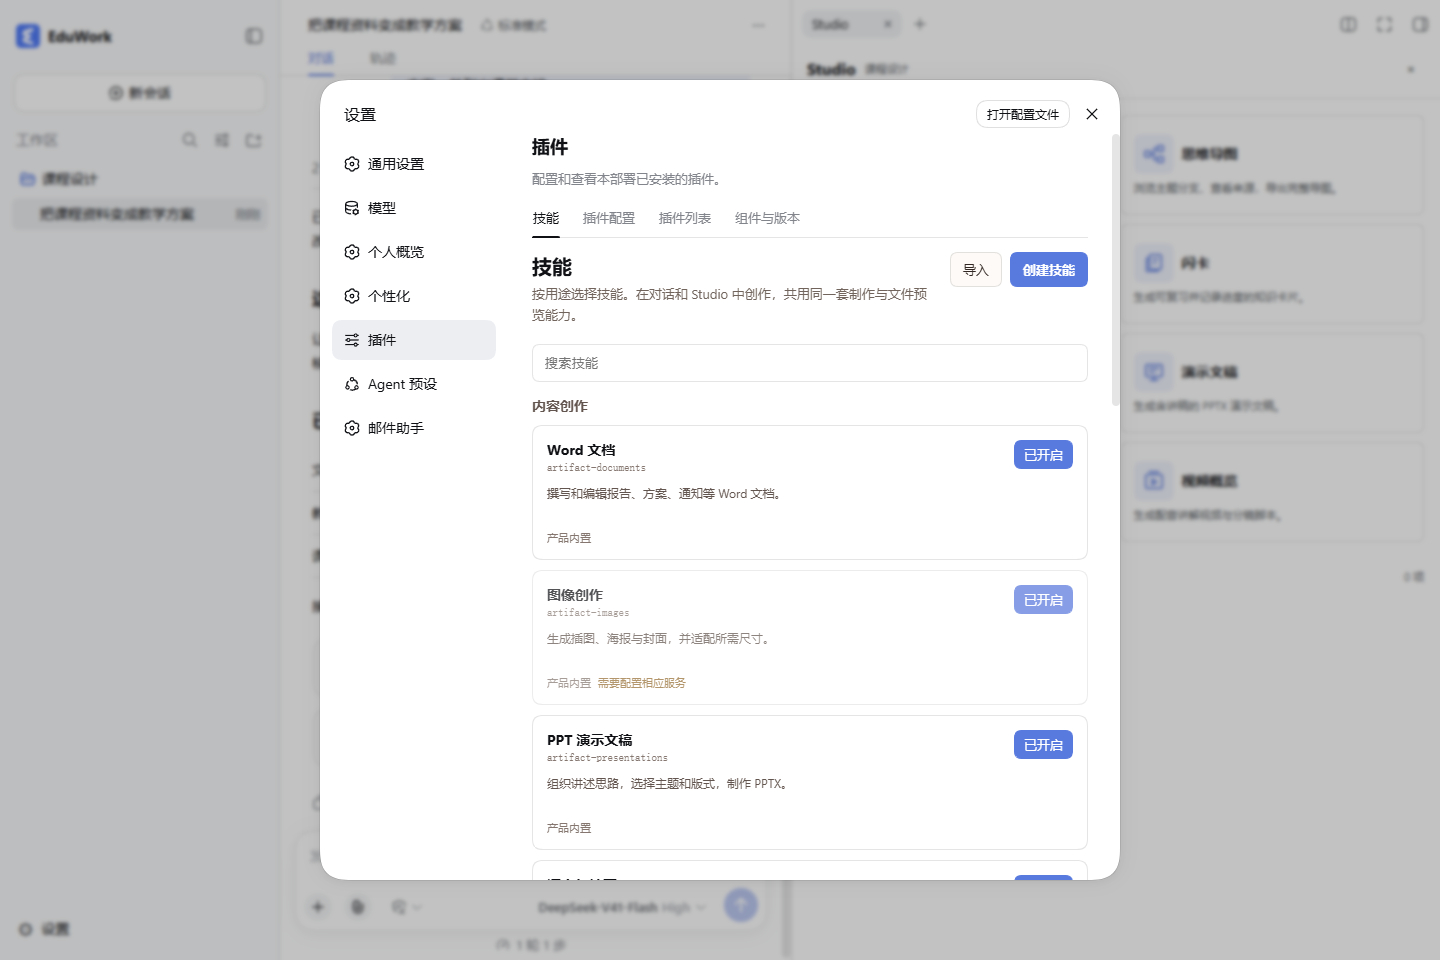
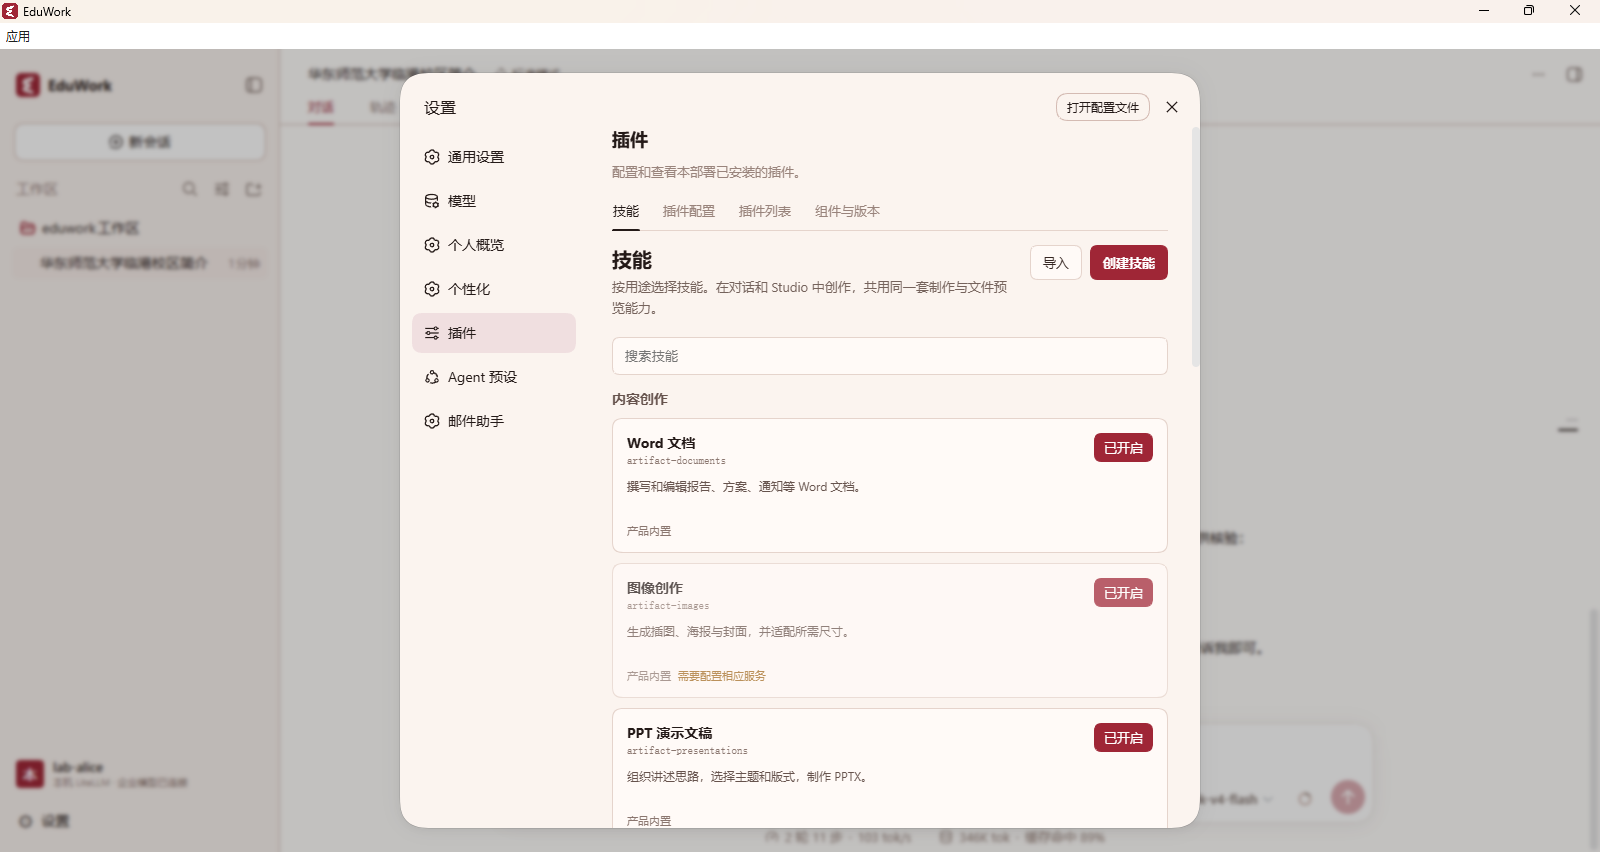
docs: refresh public edition screenshots and LiteLLM walkthrough

diff --git a/README_EN.md b/README_EN.md
@@ -20,9 +20,9 @@ EduWork is a desktop AI assistant built on [DeepSeek Harness](https://github.com
 
 Individuals can connect their own model APIs. Schools and businesses can configure their identity and model services. **Each client runs independently on its user's computer, with no separate EduWork server to deploy.**
 
-![EduWork workspace: turn course materials into a teaching plan and open output files in the conversation](docs/images/workspace.png)
+![EduWork workspace: research campus information, generate an HTML introduction, and preview the page on the right](docs/images/workspace.png)
 
-<p align="center"><sub>Keep sources, conversations, and results together, so you can keep building on your work.</sub></p>
+<p align="center"><sub>From research to a finished page: continue the conversation on the left and preview the generated result on the right.</sub></p>
 
 ## What you can do
 
@@ -53,11 +53,20 @@ Open Studio on the right and choose an output type, or ask for it in a conversat
 
 **Reports · Spreadsheets · Presentations · Mind maps · Quizzes · Flashcards · Audio · Video**
 
-![Studio sidebar: create teaching materials for a lesson plan, shown with an institution configuration](docs/images/studio.png)
+![Studio in the public edition: output types and a quiz generated from workspace materials](docs/images/studio.png)
 
-<p align="center"><sub>The screenshot shows an institution configuration. Studio is part of the public edition; interface names and branding are configurable.</sub></p>
+<p align="center"><sub>Choose an output type to begin. Generated items appear under Recent results, ready to open and use.</sub></p>
 
 Export reports, spreadsheets, and presentations as **DOCX, XLSX, and PPTX** files. Preview interactive learning materials and download media with subtitles. Image generation and cloud TTS require compatible services; local speech depends on the system and local resources. See [media configuration](docs/MEDIA.md).
+
+<details>
+<summary>See how a generated quiz works</summary>
+
+![Studio quiz: check answers, explanations, and source evidence, then ask AI a follow-up question](docs/images/quiz.png)
+
+Answer directly in the sidebar, review explanations and source evidence, and use Ask AI for follow-up questions.
+
+</details>
 
 ### Make it work your way
 
@@ -105,6 +114,15 @@ The public edition does not download institution configuration by default. It sh
 3. Save, completely exit, and restart. Sign in to LiteLLM from the account menu, choose a team if requested, approve access, and select a model to chat.
 
 The gateway must enable native CLI OAuth and grant the account model permissions. The protocol baseline is LiteLLM v1.101.0 / native contract 1. For HTTP testing, set `allowInsecureDevelopment` to `true` in the organization object; keep its default `false` for HTTPS. See the [field-by-field steps](config/desktop/examples/README_EN.md#connect-litellm-where-to-edit-and-what-to-enter) and [server preparation and troubleshooting](packages/dsh-oidc/docs/gateway-auth/litellm-setup.en.md).
+
+<details>
+<summary>See model selection after LiteLLM sign-in</summary>
+
+![After LiteLLM sign-in, the model menu shows the authorized deepseek-v4-flash under the local LiteLLM group](docs/images/litellm-models.png)
+
+This example account is authorized to use `deepseek-v4-flash`; your gateway determines the actual names and model list. The DeepSeek group above is a separately configured provider, which can coexist with organization models.
+
+</details>
 
 ### 3. Start working
 

diff --git a/docs/images/README_EN.md b/docs/images/README_EN.md
@@ -5,8 +5,10 @@
 | File | Content |
 | --- | --- |
 | `readme-hero.svg` · `readme-hero-en.svg` | Chinese and English homepage brand illustrations, using the shared EduWork mark; these are not UI screenshots. |
-| `workspace.png` | Workspace and conversation |
-| `studio.png` | Lesson planning conversation and Studio sidebar, shown with an institution configuration and the blue theme |
+| `workspace.png` | Public-edition workspace: research conversation and a generated HTML page preview |
+| `studio.png` | Public-edition Studio: output types and a recently generated quiz |
+| `quiz.png` | Quiz answers, explanations, and source evidence |
 | `skills.png` | Skill management |
+| `litellm-models.png` | Selecting an authorized model after LiteLLM sign-in; the red box highlights the LiteLLM group |
 
-Screenshots use demonstration material to introduce the interface; they do not represent model output quality. The Chinese and English homepages share the same images. Update alternative text with the images and exclude personal or institution-private information.
+Screenshots show the public edition's red theme with demonstration material. They illustrate features and controls; generated content in them is not a factual reference. Chinese and English documents share the same images. Update alternative text with the images and exclude personal or institution-private information.

diff --git a/packages/dsh-oidc/docs/gateway-auth/litellm-setup.en.md b/packages/dsh-oidc/docs/gateway-auth/litellm-setup.en.md
@@ -80,6 +80,10 @@ Developers integrating another client can use the [single Profile example](../..
 3. The browser returns to a local callback page. Once it confirms completion, return to EduWork.
 4. Select an organization model and send a short message to verify a real upstream response.
 
+![Selecting deepseek-v4-flash in the organization group after signing in to LiteLLM from EduWork](../../../../docs/images/litellm-models.png)
+
+The local LiteLLM group is the configured organization name, and `deepseek-v4-flash` is an authorized gateway model. Server permissions determine your model list; the DeepSeek group above belongs to a separately configured provider.
+
 The `127.0.0.1` callback is a temporary EduWork listener on the user's computer, not the LiteLLM server. Complete sign-in in a browser on the same computer as the client. Do not bookmark or reuse an old authorization link.
 
 The client discovers the current authorization's `/v1/models`, sends requests with the Access Token, and refreshes near expiry. Protected local storage restores authorization after restart. Logout clears the local session and attempts Refresh Token revocation; the server controls the remaining lifetime of issued Access Tokens.

diff --git a/docs/images/README.md b/docs/images/README.md
@@ -5,8 +5,10 @@
 | 文件 | 展示内容 |
 | --- | --- |
 | `readme-hero.svg` · `readme-hero-en.svg` | 中英文首页品牌插画，使用统一 EduWork 标识；并非界面截图。 |
-| `workspace.png` | 工作区对话与成果文件。 |
-| `studio.png` | 课程设计对话与 Studio 侧边栏（机构配置示例，蓝色主题）。 |
+| `workspace.png` | 公版工作区：调研对话与生成的 HTML 网页预览。 |
+| `studio.png` | 公版 Studio：成果类型入口与最近生成的测验。 |
+| `quiz.png` | 测验答题、解析与来源依据。 |
 | `skills.png` | 技能中心。 |
+| `litellm-models.png` | LiteLLM 登录后选择获授权的模型；红框标出 LiteLLM 分组。 |
 
-截图使用演示资料，仅展示功能与操作入口，不代表模型生成质量。中英文首页共用图片；更新时同步替代文本，并避免包含个人或机构私有数据。
+截图使用公版红色主题与演示资料，展示功能与操作入口；图中生成内容不作为事实参考。中英文文档共用图片；更新时同步替代文本，并避免包含个人或机构私有数据。

diff --git a/packages/dsh-oidc/docs/gateway-auth/litellm-setup.md b/packages/dsh-oidc/docs/gateway-auth/litellm-setup.md
@@ -80,6 +80,10 @@ curl --fail --silent --show-error https://gateway.example.org/.well-known/litell
 3. 浏览器返回本机回调页面，确认登录完成后回到 EduWork。
 4. 在模型选择器中选择该机构的模型，发送一条简短消息确认真实模型响应。
 
+![EduWork 登录 LiteLLM 后，在机构分组中选择 deepseek-v4-flash](../../../../docs/images/litellm-models.png)
+
+图中「本机 LiteLLM」是配置的机构名称，`deepseek-v4-flash` 是网关授权的模型。你的模型列表由服务端权限决定；上方 DeepSeek 分组属于另外配置的服务商。
+
 `127.0.0.1` 回调是 EduWork 在用户电脑上临时监听的地址，不是 LiteLLM 服务器地址。浏览器必须在运行客户端的同一台电脑上完成回调；不要收藏或重复打开旧授权链接。
 
 客户端自动读取当前授权的 `/v1/models`，请求使用 Access Token，并在临近到期时刷新。重启后通过本机受保护存储恢复授权。退出登录会清理本地会话并尝试撤销 Refresh Token；Access Token 的剩余有效期由服务端控制。
